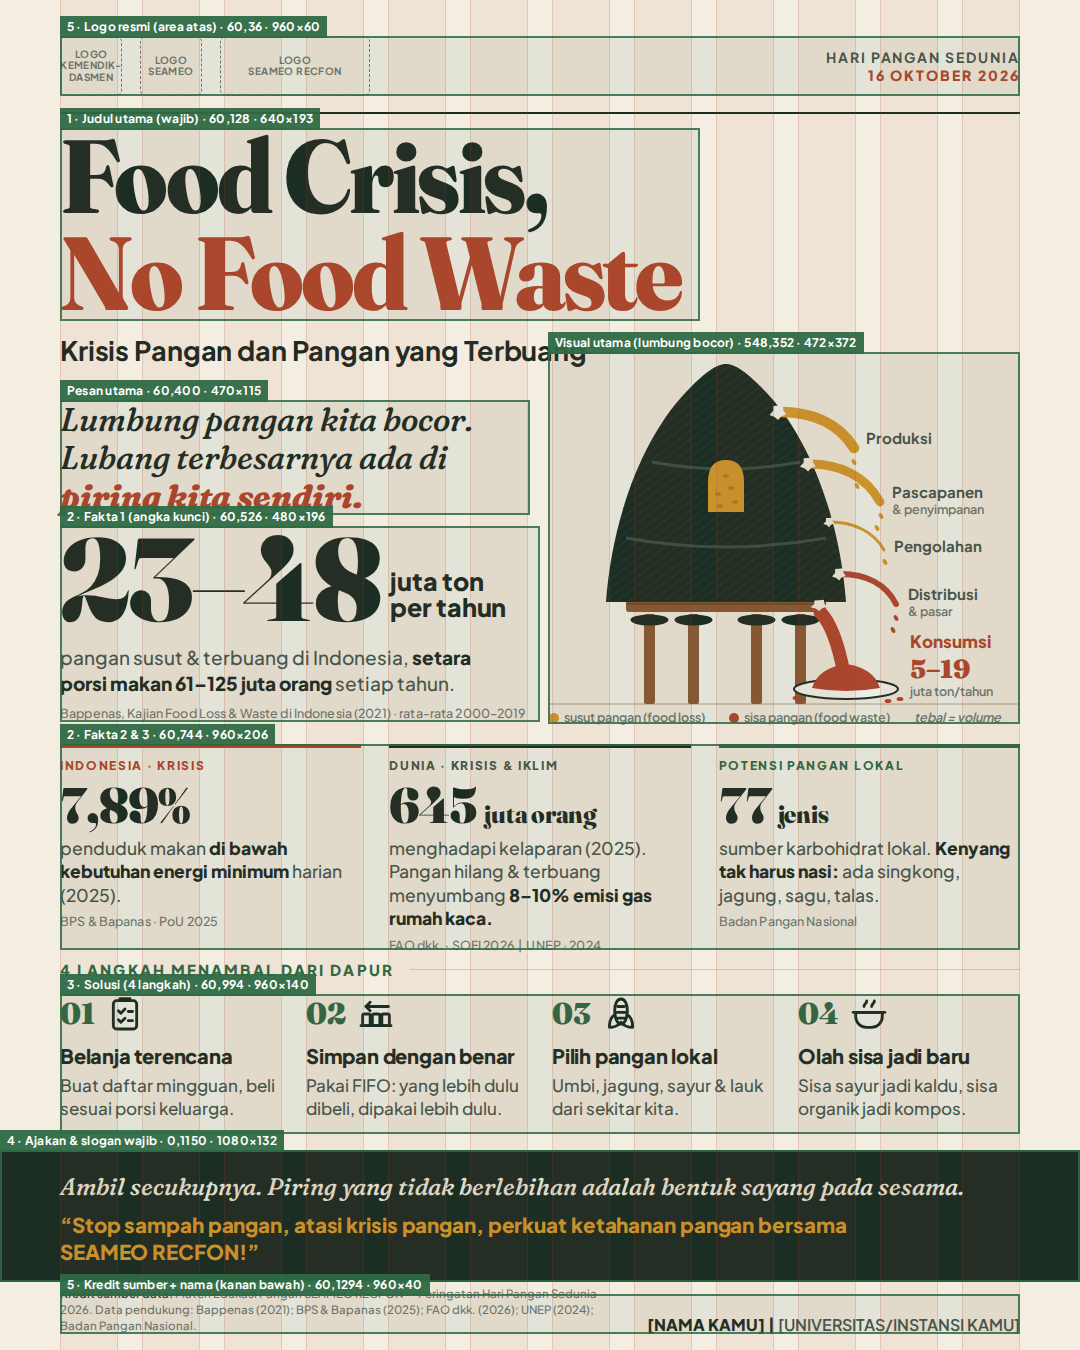
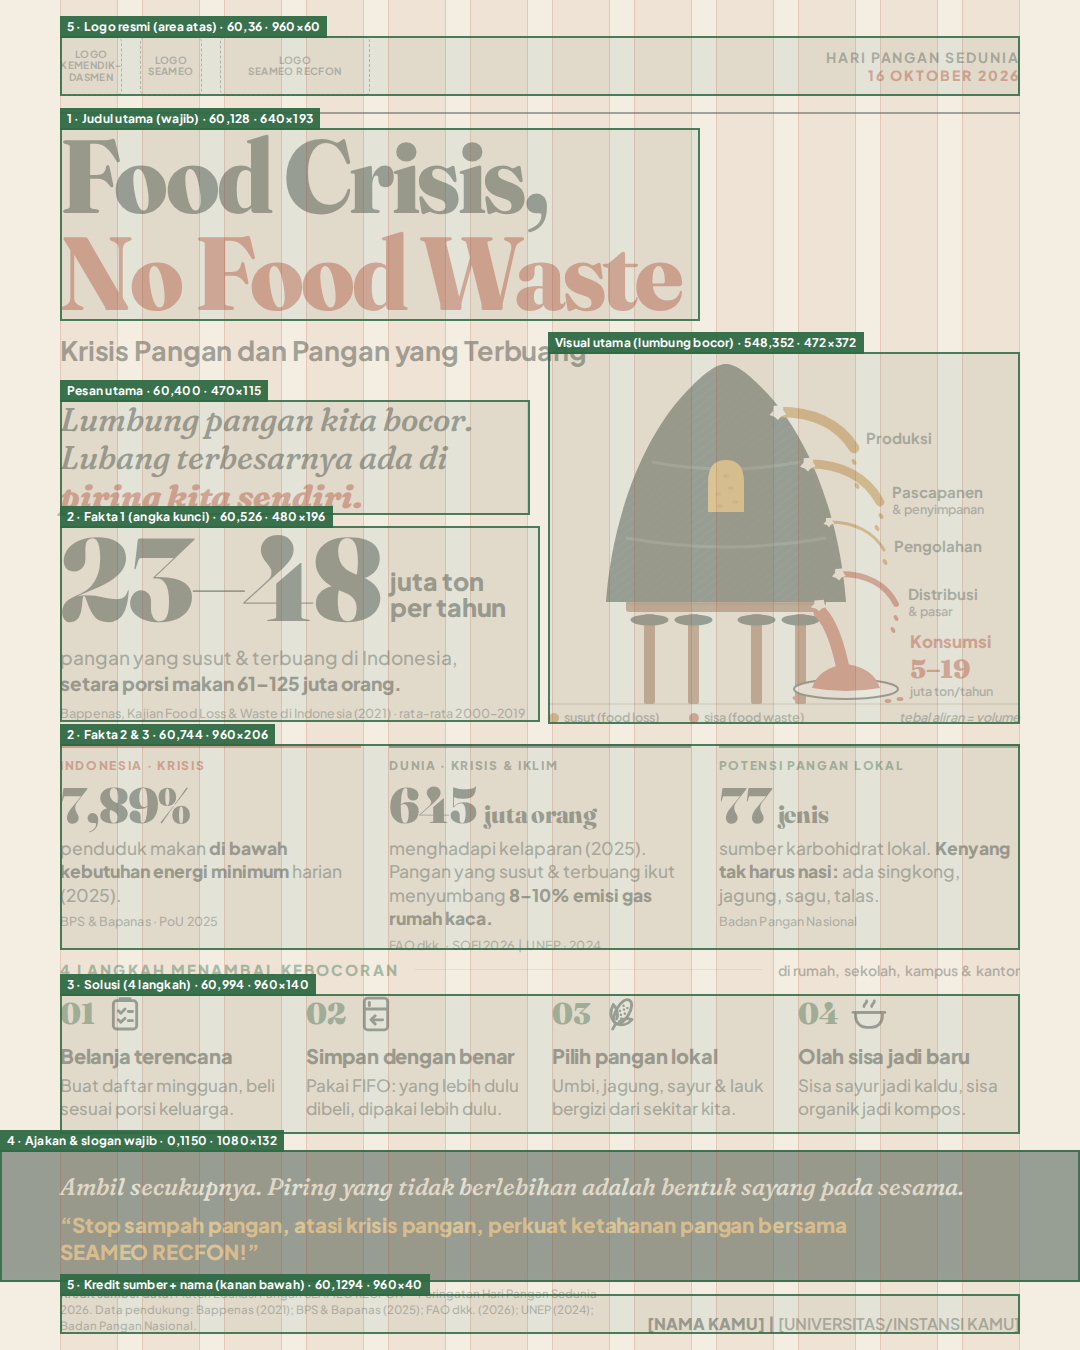
Revise infographic after iterative audit
- Raise text and chart contrast to WCAG AA / 3:1 for graphics
- Redraw step icons (fridge with FIFO arrow, tilted corn) that misread
  as a building and a rocket
- Let long participant names wrap inside the margin; keep the
  one-line "Nama | Instansi" format when it fits; extend overflow checks
- Unify terminology, drop repeated "per tahun", add "bergizi" and the
  home/school/campus/office scope, clarify the flow-width legend
- Fade content in wireframe mode so zones and coordinates stay legible
- Sync the concept document (copy deck, palette, storyboard, checklist)
  and add a revision log

Claude-Session: https://claude.ai/code/session_01Tws1XWT9H7XcaYbG8vPbgd

diff --git a/world-food-day-2026/design/infografis.html b/world-food-day-2026/design/infografis.html
@@ -26,9 +26,10 @@
     --paper-2: #E9E0CF;
     --ink: #1B2A22;
     --ink-2: #46564C;
-    --ink-3: #6E7A72;
+    --ink-3: #5E6A62;
     --rust: #B4452A;
-    --grain: #D6982B;
+    --grain: #D6982B;          /* gabah di atas latar gelap & jendela */
+    --grain-deep: #B87C1C;     /* gabah di atas kertas (kontras >= 3:1) */
     --leaf: #2E6A45;
     --wood: #8A5A34;
     --line: #D3C8B4;
@@ -147,6 +148,7 @@
     white-space: nowrap;
   }
   .steps-head .hr { flex: 1; height: 1.5px; background: var(--line); }
+  .steps-head .where { font: 600 14px/1 var(--sans); word-spacing: .12em; color: var(--ink-2); white-space: nowrap; }
   .steps {
     left: var(--m); right: var(--m); top: 994px; height: 140px;
     display: grid; grid-template-columns: repeat(4, 1fr); gap: 24px;
@@ -157,7 +159,7 @@
     font-family: var(--serif); font-weight: 900; font-size: 30px; line-height: 1; color: var(--leaf);
     font-variation-settings: "opsz" 72;
   }
-  .step svg { width: 40px; height: 40px; stroke: var(--ink); fill: none; stroke-width: 1.7;
+  .step svg { width: 40px; height: 40px; color: var(--ink); stroke: var(--ink); fill: none; stroke-width: 1.7;
     stroke-linecap: round; stroke-linejoin: round; }
   .step h4 { margin-top: 10px; font: 800 20px/1.2 var(--sans); letter-spacing: -.01em; color: var(--ink); }
   .step p { margin-top: 6px; font: 500 17px/1.36 var(--sans); color: var(--ink-2); }
@@ -180,13 +182,15 @@
     left: var(--m); right: var(--m); top: 1294px; height: 40px;
     display: flex; justify-content: space-between; align-items: flex-end; gap: 24px;
   }
-  .footer .credit { font: 500 11.5px/1.4 var(--sans); color: var(--ink-3); max-width: 600px; }
+  .footer .credit { flex: 1 1 0; min-width: 0; font: 500 11.5px/1.4 var(--sans); color: var(--ink-3); max-width: 600px; }
   .footer .credit b { color: var(--ink-2); font-weight: 700; }
-  .footer .who { text-align: right; white-space: nowrap; font: 800 16px/1.2 var(--sans); color: var(--ink); }
+  .footer .who { flex: 0 0 auto; max-width: 440px; text-align: right; font: 800 16px/1.25 var(--sans); color: var(--ink); }
+  .footer .who span { white-space: nowrap; }
   .footer .who span { font-weight: 600; color: var(--ink-2); }
 
   /* ---------- Mode wireframe (peta tata letak untuk dieksekusi manual) ---------- */
   body.wireframe .guide { display: block; }
+  body.wireframe > :not(.guide):not(script) { opacity: .38; }
   .guide { display: none; }
   .grid-col { position: absolute; top: 0; bottom: 0; background: rgba(180, 69, 42, .06);
     border-left: 1px solid rgba(180, 69, 42, .18); border-right: 1px solid rgba(180, 69, 42, .18); }
@@ -219,7 +223,7 @@
 
 <div class="abs bignum" data-zone="2 · Fakta 1 (angka kunci)">
   <div class="n">23–48 <span class="u">juta ton<br>per tahun</span></div>
-  <p class="c">pangan susut &amp; terbuang di Indonesia, <strong>setara porsi makan 61–125 juta orang</strong> setiap tahun.</p>
+  <p class="c">pangan yang susut &amp; terbuang di Indonesia, <strong>setara porsi makan 61–125 juta orang.</strong></p>
   <p class="src">Bappenas, Kajian Food Loss &amp; Waste di Indonesia (2021) · rata-rata 2000–2019</p>
 </div>
 
@@ -274,24 +278,24 @@
        produksi 9,65 · pascapanen 8,0 · pengolahan 1,45 · distribusi 5,4 -->
   <!-- 1 Produksi (susut) -->
   <g>
-    <path d="M232 60 C262 60 290 70 306 96" fill="none" stroke="var(--grain)" stroke-width="10.6" stroke-linecap="round"/>
+    <path d="M232 60 C262 60 290 70 306 96" fill="none" stroke="var(--grain-deep)" stroke-width="10.6" stroke-linecap="round"/>
     <polygon points="238.1,62.5 233.2,64.2 230.1,68.1 226.6,64.9 221.6,62.9 225.3,58.5 225.4,53.9 229.9,53.6 234.9,53.1 235.3,58.2" fill="var(--paper)"/>
-    <ellipse cx="306" cy="110" rx="3.2" ry="1.9" fill="var(--grain)" transform="rotate(60 306 110)"/><ellipse cx="302" cy="122" rx="3.2" ry="1.9" fill="var(--grain)" transform="rotate(60 302 122)"/><ellipse cx="309" cy="134" rx="3.2" ry="1.9" fill="var(--grain)" transform="rotate(60 309 134)"/>
+    <ellipse cx="306" cy="110" rx="3.2" ry="1.9" fill="var(--grain-deep)" transform="rotate(60 306 110)"/><ellipse cx="302" cy="122" rx="3.2" ry="1.9" fill="var(--grain-deep)" transform="rotate(60 302 122)"/><ellipse cx="309" cy="134" rx="3.2" ry="1.9" fill="var(--grain-deep)" transform="rotate(60 309 134)"/>
     <text class="lbl" x="318" y="92">Produksi</text>
   </g>
   <!-- 2 Pascapanen & penyimpanan (susut) -->
   <g>
-    <path d="M262 112 C292 112 318 124 332 150" fill="none" stroke="var(--grain)" stroke-width="8.8" stroke-linecap="round"/>
+    <path d="M262 112 C292 112 318 124 332 150" fill="none" stroke="var(--grain-deep)" stroke-width="8.8" stroke-linecap="round"/>
     <polygon points="267.6,114.4 263.0,116.0 260.1,119.6 256.8,116.6 252.0,114.7 255.6,110.6 255.7,106.2 259.9,106.0 264.6,105.5 265.0,110.3" fill="var(--paper)"/>
-    <ellipse cx="333" cy="164" rx="3.2" ry="1.9" fill="var(--grain)" transform="rotate(60 333 164)"/><ellipse cx="329" cy="176" rx="3.2" ry="1.9" fill="var(--grain)" transform="rotate(60 329 176)"/>
+    <ellipse cx="333" cy="164" rx="3.2" ry="1.9" fill="var(--grain-deep)" transform="rotate(60 333 164)"/><ellipse cx="329" cy="176" rx="3.2" ry="1.9" fill="var(--grain-deep)" transform="rotate(60 329 176)"/>
     <text class="lbl" x="344" y="146">Pascapanen</text>
     <text class="lbl-sub" x="344" y="162">&amp; penyimpanan</text>
   </g>
   <!-- 3 Pengolahan & pengemasan (susut) -->
   <g>
-    <path d="M282 170 C306 170 326 180 336 198" fill="none" stroke="var(--grain)" stroke-width="3" stroke-linecap="round"/>
+    <path d="M282 170 C306 170 326 180 336 198" fill="none" stroke="var(--grain-deep)" stroke-width="3" stroke-linecap="round"/>
     <polygon points="286.3,171.6 283.0,172.7 281.1,175.2 278.8,173.1 275.5,171.9 278.0,169.1 278.0,166.0 280.9,165.9 284.2,165.5 284.4,168.8" fill="var(--paper)"/>
-    <ellipse cx="337" cy="210" rx="3.2" ry="1.9" fill="var(--grain)" transform="rotate(60 337 210)"/>
+    <ellipse cx="337" cy="210" rx="3.2" ry="1.9" fill="var(--grain-deep)" transform="rotate(60 337 210)"/>
     <text class="lbl" x="346" y="200">Pengolahan</text>
   </g>
   <!-- 4 Distribusi & pemasaran (sisa) -->
@@ -321,11 +325,11 @@
 
   <!-- legenda -->
   <g transform="translate(0,368)">
-    <circle cx="6" cy="-2" r="5" fill="var(--grain)"/>
-    <text class="lbl-sub" x="16" y="2">susut pangan (food loss)</text>
-    <circle cx="186" cy="-2" r="5" fill="var(--rust)"/>
-    <text class="lbl-sub" x="196" y="2">sisa pangan (food waste)</text>
-    <text class="lbl-sub" x="366" y="2" style="font-style:italic">tebal = volume</text>
+    <circle cx="6" cy="-2" r="5" fill="var(--grain-deep)"/>
+    <text class="lbl-sub" x="16" y="2">susut (food loss)</text>
+    <circle cx="146" cy="-2" r="5" fill="var(--rust)"/>
+    <text class="lbl-sub" x="156" y="2">sisa (food waste)</text>
+    <text class="lbl-sub" x="472" y="2" text-anchor="end" style="font-style:italic">tebal aliran = volume</text>
   </g>
 </svg>
 </div>
@@ -341,7 +345,7 @@
   <div class="fact">
     <div class="tag">Dunia · Krisis &amp; Iklim</div>
     <div class="n">645 <small>juta orang</small></div>
-    <p>menghadapi kelaparan (2025). Pangan hilang &amp; terbuang menyumbang <strong>8–10% emisi gas rumah kaca.</strong></p>
+    <p>menghadapi kelaparan (2025). Pangan yang susut &amp; terbuang ikut menyumbang <strong>8–10% emisi gas rumah kaca.</strong></p>
     <p class="src">FAO dkk. · SOFI 2026 &nbsp;|&nbsp; UNEP · 2024</p>
   </div>
   <div class="fact local">
@@ -353,7 +357,7 @@
 </section>
 
 <!-- [BAGIAN 3] Solusi / aksi nyata -->
-<div class="abs steps-head"><h3>4 langkah menambal dari dapur</h3><div class="hr"></div></div>
+<div class="abs steps-head"><h3>4 langkah menambal kebocoran</h3><div class="hr"></div><span class="where">di rumah, sekolah, kampus &amp; kantor</span></div>
 <section class="abs steps" data-zone="3 · Solusi (4 langkah)">
   <div class="step">
     <div class="top"><span class="num">01</span>
@@ -364,17 +368,17 @@
   </div>
   <div class="step">
     <div class="top"><span class="num">02</span>
-      <svg viewBox="0 0 24 24"><path d="M3 19h18"/><rect x="4" y="12" width="4.5" height="7" rx="1"/><rect x="9.8" y="12" width="4.5" height="7" rx="1"/><rect x="15.5" y="12" width="4.5" height="7" rx="1"/><path d="M19.5 7.5H6"/><path d="M8.5 5L6 7.5 8.5 10"/></svg>
+      <svg viewBox="0 0 24 24"><rect x="5" y="2.5" width="14" height="19" rx="2"/><path d="M5 9h14"/><path d="M8 5v2"/><path d="M16 15.5H9.5"/><path d="M11.5 13l-2.5 2.5 2.5 2.5"/></svg>
     </div>
     <h4>Simpan dengan benar</h4>
     <p>Pakai FIFO: yang lebih dulu dibeli, dipakai lebih dulu.</p>
   </div>
   <div class="step">
     <div class="top"><span class="num">03</span>
-      <svg viewBox="0 0 24 24"><path d="M12 3c2.4 0 3.8 3 3.8 7s-1.4 8-3.8 8-3.8-4-3.8-8S9.6 3 12 3z"/><path d="M10 7.5h4M9.3 11h5.4M9.8 14.5h4.4"/><path d="M8.4 12.5C6.2 13.6 5 16.5 5 20c3 0 5.3-1.1 7-3"/><path d="M15.6 12.5c2.2 1.1 3.4 4 3.4 7.5-3 0-5.3-1.1-7-3"/></svg>
+      <svg viewBox="0 0 24 24"><g transform="translate(12 12.4) rotate(30) scale(1.22) translate(-12 -10.4)" stroke-width="1.4"><path d="M12 2.2c2 0 3.2 2.8 3.2 6.4S14 15.4 12 15.4s-3.2-3.2-3.2-6.8S10 2.2 12 2.2z"/><g fill="currentColor" stroke="none"><circle cx="10.9" cy="6" r=".6"/><circle cx="13.1" cy="6" r=".6"/><circle cx="12" cy="7.5" r=".6"/><circle cx="10.6" cy="9" r=".6"/><circle cx="13.4" cy="9" r=".6"/><circle cx="12" cy="10.5" r=".6"/><circle cx="10.9" cy="12" r=".6"/><circle cx="13.1" cy="12" r=".6"/></g><path d="M12 15.4c-3.3-.4-5.6-3.4-5.8-7.4 2.6.8 4.4 2.8 5 5.2"/><path d="M12 15.4c3-.2 5.3-2.4 5.9-5.6-2.3.4-4.1 1.8-4.9 3.9"/><path d="M12 15.6v3"/></g></svg>
     </div>
     <h4>Pilih pangan lokal</h4>
-    <p>Umbi, jagung, sayur &amp; lauk dari sekitar kita.</p>
+    <p>Umbi, jagung, sayur &amp; lauk bergizi dari sekitar kita.</p>
   </div>
   <div class="step">
     <div class="top"><span class="num">04</span>
@@ -449,6 +453,12 @@
     for (const [s, r] of rects) {
       if (r.right > 1080 || r.bottom > 1350) issues.push(s + ' keluar kanvas');
     }
+    document.querySelectorAll('.footer *, .steps-head *, .facts *, .steps *').forEach((n) => {
+      const r = n.getBoundingClientRect();
+      if (r.right > 1021 || r.left < 59) issues.push('keluar margin: ' + (n.className || n.tagName) + ' ' + Math.round(r.left) + '-' + Math.round(r.right));
+    });
+    const who = document.querySelector('.who').getBoundingClientRect(), cr = document.querySelector('.credit').getBoundingClientRect();
+    if (who.left < cr.right) issues.push('nama menabrak kredit');
     document.querySelectorAll('.fact, .step, .band, .bignum').forEach((el) => {
       if (el.scrollHeight > el.clientHeight + 1 && getComputedStyle(el).height !== 'auto') issues.push('isi terpotong: ' + el.className);
     });
